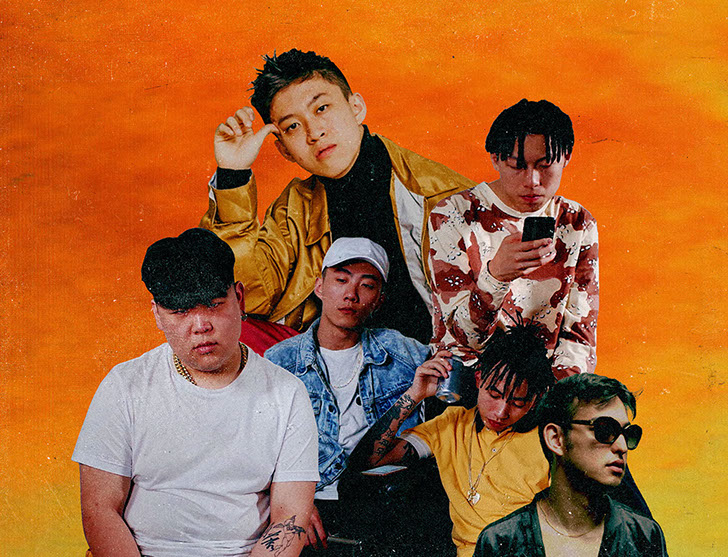
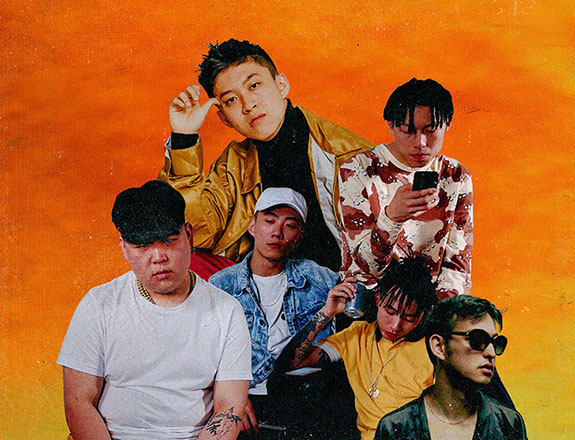
Add files via upload

diff --git a/css/index.css b/css/index.css
@@ -1,1 +1,1 @@
-.version.index{color:#000014;background-color:#ACBC1A;}#muse_css_mq{background-color:#FFFFFF;}#page{z-index:1;width:828px;min-height:500px;background-image:none;border-width:0px;border-color:#000000;background-color:transparent;margin-left:auto;margin-right:auto;}#pu4504{z-index:9;width:0.01px;height:0px;padding-bottom:991px;margin-bottom:-116px;margin-right:-10000px;margin-top:-161px;}#u4504{z-index:9;width:707px;background-color:transparent;position:fixed;top:-161px;left:65px;}#u4500{z-index:10;display:block;}#u8329{z-index:18;width:93px;border-width:0px;border-color:transparent;background-color:transparent;position:fixed;top:193px;left:-266px;}#u7403{z-index:28;width:83px;background-color:transparent;margin-left:10px;position:relative;}#u7399{z-index:29;display:block;}#u7382{z-index:19;width:93px;border-width:0px;border-color:transparent;background-color:transparent;margin-top:37px;position:relative;}#u7324{z-index:20;width:93px;border-width:0px;background-color:transparent;position:relative;}#u7325{z-index:21;display:block;margin-bottom:27px;}#u7326{z-index:22;width:34px;background-color:transparent;margin-left:30px;margin-top:4px;position:relative;}#u7327{z-index:23;display:block;}#u7322{z-index:24;width:29px;background-color:transparent;margin-left:32px;margin-top:29px;position:relative;}#u7323{z-index:25;display:block;margin-bottom:9px;}#u7328{z-index:26;width:27px;background-color:transparent;margin-left:33px;margin-top:36px;position:relative;}#u7329{z-index:27;display:block;margin-bottom:9px;}#u8320{z-index:30;width:83px;background-color:transparent;position:fixed;top:176px;left:1623px;}#u8321{z-index:31;display:block;}#u2324-4{z-index:36;width:518px;min-height:44px;border-width:0px;background-color:transparent;text-align:left;font-size:17px;line-height:20px;font-weight:bold;-webkit-transform:matrix(0,1,-1,0,281,-237);-ms-transform:matrix(0,1,-1,0,281,-237);transform:matrix(0,1,-1,0,281,-237);position:fixed;top:549px;left:616px;}#pu7696{z-index:32;width:0.01px;padding-bottom:0px;margin:110px -10000px -839px 29px;}#u7696{z-index:32;width:728px;background-color:transparent;margin-left:60px;position:relative;}#u7696_img{margin-top:-7px;margin-bottom:-8px;}#u9010{z-index:2;width:658px;border-width:0px;border-color:transparent;background-color:transparent;margin-left:55px;margin-top:108px;position:relative;}#u2179{z-index:3;width:217px;background-color:transparent;position:relative;margin-right:-10000px;}#u2175{z-index:4;display:block;margin-bottom:16px;}#u2271{z-index:5;width:315px;background-color:transparent;position:relative;margin-right:-10000px;left:246px;}#u2267{z-index:6;display:block;}#u2282{z-index:7;width:78px;background-color:transparent;position:relative;margin-right:-10000px;left:580px;}#u2278{z-index:8;display:block;}#u6154-5{z-index:11;width:790px;min-height:175px;background-color:transparent;margin-top:86px;position:relative;}#u6154{font-size:1px;line-height:0px;}#u6185{z-index:16;width:1276px;min-height:193px;border-width:0px;border-color:transparent;background-color:transparent;}#u7872{z-index:34;width:628px;background-color:transparent;margin-left:61px;margin-top:369px;position:relative;}#u7872_img{padding-right:4px;}.html{background-color:#F4E2CD;}body{position:relative;min-width:828px;padding-top:191px;padding-bottom:191px;}
+.version.index{color:#000014;background-color:#1C476C;}#muse_css_mq{background-color:#FFFFFF;}#page{z-index:1;width:628px;min-height:500px;background-image:none;border-width:0px;border-color:#000000;background-color:transparent;margin-left:auto;margin-right:auto;}#pu8329{z-index:18;width:0.01px;height:0px;padding-bottom:518px;margin-right:-10000px;margin-top:-72px;}#u8329{z-index:18;width:79px;border-width:0px;border-color:transparent;background-color:transparent;padding-bottom:1px;position:fixed;top:-50px;left:-115px;}#u7403{z-index:28;width:70px;background-color:transparent;margin-left:9px;position:relative;}#u7399{z-index:29;display:block;}#u7382{z-index:19;width:79px;border-width:0px;border-color:transparent;background-color:transparent;padding-bottom:0px;margin-top:30px;position:relative;}#u7324{z-index:20;width:79px;border-width:0px;background-color:transparent;position:relative;}#u7325{z-index:21;display:block;margin-bottom:23px;}#u7326{z-index:22;width:28px;background-color:transparent;margin-left:25px;margin-top:4px;position:relative;}#u7327{z-index:23;display:block;}#u7322{z-index:24;width:24px;background-color:transparent;margin-left:27px;margin-top:25px;position:relative;}#u7323{z-index:25;display:block;margin-bottom:8px;}#u7328{z-index:26;width:23px;background-color:transparent;margin-left:28px;margin-top:30px;position:relative;}#u7329{z-index:27;display:block;margin-bottom:7px;}#u8320{z-index:30;width:83px;background-color:transparent;position:fixed;top:176px;left:1623px;}#u8321{z-index:31;display:block;}#u2324-4{z-index:36;width:518px;min-height:44px;border-width:0px;background-color:transparent;text-align:left;font-size:17px;line-height:20px;font-weight:bold;-webkit-transform:matrix(0,1,-1,0,281,-237);-ms-transform:matrix(0,1,-1,0,281,-237);transform:matrix(0,1,-1,0,281,-237);position:fixed;top:165px;left:473px;}#pu4504{z-index:9;width:0.01px;padding-bottom:0px;margin:-129px -10000px -897px 30px;}#u4504{z-index:9;width:614px;background-color:transparent;position:relative;}#u4500{z-index:10;display:block;}#u7696{z-index:32;width:575px;background-color:transparent;margin-top:48px;position:relative;}#u7696_img{margin-top:-6px;margin-bottom:-6px;}#u9251{z-index:2;width:587px;border-width:0px;border-color:transparent;background-color:transparent;margin-top:47px;position:relative;}#u2179{z-index:3;width:185px;background-color:transparent;position:relative;margin-right:-10000px;}#u2175{z-index:4;display:block;margin-bottom:13px;}#u2282{z-index:7;width:67px;background-color:transparent;position:relative;margin-right:-10000px;left:219px;}#u2278{z-index:8;display:block;}#u2271{z-index:5;width:268px;background-color:transparent;position:relative;margin-right:-10000px;left:320px;}#u2267{z-index:6;display:block;}#u9268-5{z-index:11;width:587px;min-height:61px;background-color:transparent;margin-top:17px;position:relative;}#u9268{font-size:1px;line-height:0px;}#u9333{margin-top:-1px;margin-bottom:1px;}#u9330{z-index:16;width:587px;min-height:73px;border-width:0px;border-color:transparent;background-color:transparent;}#u7872{z-index:34;width:301px;background-color:transparent;margin-left:120px;margin-top:29px;position:relative;}#u7872_img{padding-right:2px;}.html{background-color:#F4E2CD;}body{position:relative;min-width:628px;padding-top:191px;padding-bottom:191px;}

diff --git a/index.html b/index.html
@@ -16,15 +16,12 @@ if(typeof Muse == "undefined") window.Muse = {}; window.Muse.assets = {"required
   <title>Home</title>
   <!-- CSS -->
   <link rel="stylesheet" type="text/css" href="css/site_global.css?crc=444006867"/>
-  <link rel="stylesheet" type="text/css" href="css/index.css?crc=3958639424" id="pagesheet"/>
+  <link rel="stylesheet" type="text/css" href="css/index.css?crc=337397612" id="pagesheet"/>
    </head>
  <body>
 
   <div class="clearfix" id="page"><!-- group -->
-   <div class="clearfix grpelem" id="pu4504"><!-- group -->
-    <div class="clip_frame mse_pre_init" id="u4504"><!-- svg -->
-     <img class="svg" id="u4500" src="images/asia-tour.svg?crc=90378404" width="614" height="211" alt="" data-mu-svgfallback="images/asia%20tour_poster_.png?crc=361702700"/>
-    </div>
+   <div class="clearfix grpelem" id="pu8329"><!-- group -->
     <div class="clearfix mse_pre_init" id="u8329"><!-- column -->
      <div class="clip_frame colelem" id="u7403"><!-- svg -->
       <img class="svg" id="u7399" src="images/88.svg?crc=488475465" width="70" height="52" alt="" data-mu-svgfallback="images/88_poster_.png?crc=52408275"/>
@@ -43,20 +40,27 @@ if(typeof Muse == "undefined") window.Muse = {}; window.Muse.assets = {"required
      <p>&nbsp;&nbsp;&nbsp;&nbsp;&nbsp;&nbsp; SPREADING DOUBLE HAPPINESS WORLDWIDE</p>
     </div>
    </div>
-   <div class="clearfix grpelem" id="pu7696"><!-- column -->
+   <div class="clearfix grpelem" id="pu4504"><!-- column -->
+    <div class="clip_frame colelem" id="u4504"><!-- svg -->
+     <img class="svg" id="u4500" src="images/asia-tour.svg?crc=90378404" width="614" height="211" alt="" data-mu-svgfallback="images/asia%20tour_poster_.png?crc=361702700"/>
+    </div>
     <div class="clip_frame clearfix colelem" id="u7696"><!-- image -->
      <img class="position_content" id="u7696_img" src="images/gang.jpg?crc=3775932593" alt="" width="575" height="440"/>
     </div>
     <div class="clearfix colelem" id="u9251"><!-- group -->
      <div class="clip_frame grpelem" id="u2179"><!-- svg -->
-      <img class="svg" id="u2175" src="images/rich2.svg?crc=3797180448" width="186" height="37" alt="" data-mu-svgfallback="images/rich2_poster_.png?crc=3799306562"/>
+      <img class="svg" id="u2175" src="images/rich2.svg?crc=3797180448" width="185" height="37" alt="" data-mu-svgfallback="images/rich2_poster_.png?crc=3799306562"/>
      </div>
      <div class="clip_frame grpelem" id="u2282"><!-- svg -->
       <img class="svg" id="u2278" src="images/joji2.svg?crc=250736453" width="67" height="37" alt="" data-mu-svgfallback="images/joji2_poster_.png?crc=4273273"/>
      </div>
      <div class="clip_frame grpelem" id="u2271"><!-- svg -->
-      <img class="svg" id="u2267" src="images/higher2.svg?crc=335736623" width="259" height="37" alt="" data-mu-svgfallback="images/higher2_poster_.png?crc=159973313"/>
+      <img class="svg" id="u2267" src="images/higher2.svg?crc=335736623" width="257" height="37" alt="" data-mu-svgfallback="images/higher2_poster_.png?crc=159973313"/>
      </div>
+    </div>
+    <div class="clearfix colelem" id="u9268-5"><!-- content -->
+     <p><span id="u9268"></span><span class="actAsInlineDiv normal_text" id="u9333"><!-- content --><span class="actAsDiv excludeFromNormalFlow" id="u9330"><!-- custom html --><a href="http://www.songkick.com/artists/9289569" class="songkick-widget" data-theme="light" data-detect-style="true" data-background-color="transparent">88rising tour dates</a>
+<script src="//widget.songkick.com/widget.js"></script></span></span><span></span></p>
     </div>
     <div class="clip_frame colelem" id="u7872"><!-- image -->
      <img class="block" id="u7872_img" src="images/88rising.png?crc=118787567" alt="" width="299" height="39"/>
@@ -79,10 +83,9 @@ window.Muse.assets.check($);/* body */
 Muse.Utils.transformMarkupToFixBrowserProblemsPreInit();/* body */
 Muse.Utils.prepHyperlinks(true);/* body */
 Muse.Utils.makeButtonsVisibleAfterSettingMinWidth();/* body */
-$('#u4504').registerPositionScrollEffect([{"speed":[1,0],"in":[-Infinity,-45]},{"speed":[0,1],"in":[-45,Infinity]}]);/* scroll effect */
-$('#u8329').registerPositionScrollEffect([{"speed":[0,0],"in":[-Infinity,41.4]},{"speed":[0,0],"in":[41.4,Infinity]}]);/* scroll effect */
+$('#u8329').registerPositionScrollEffect([{"speed":[0,0],"in":[-Infinity,41.35]},{"speed":[0,0],"in":[41.35,Infinity]}]);/* scroll effect */
 $('#u8320').registerPositionScrollEffect([{"speed":[0,0],"in":[-Infinity,267]},{"speed":[0,0],"in":[267,Infinity]}]);/* scroll effect */
-$('#u2324-4').registerPositionScrollEffect([{"speed":[0,0],"in":[-Infinity,-83.55]},{"speed":[0,0],"in":[-83.55,Infinity]}]);/* scroll effect */
+$('#u2324-4').registerPositionScrollEffect([{"speed":[0,0],"in":[-Infinity,-92.05]},{"speed":[0,0],"in":[-92.05,Infinity]}]);/* scroll effect */
 Muse.Utils.showWidgetsWhenReady();/* body */
 Muse.Utils.transformMarkupToFixBrowserProblems();/* body */
 }catch(b){if(b&&"function"==typeof b.notify?b.notify():Muse.Assert.fail("Error calling selector function: "+b),false)throw b;}})})};
